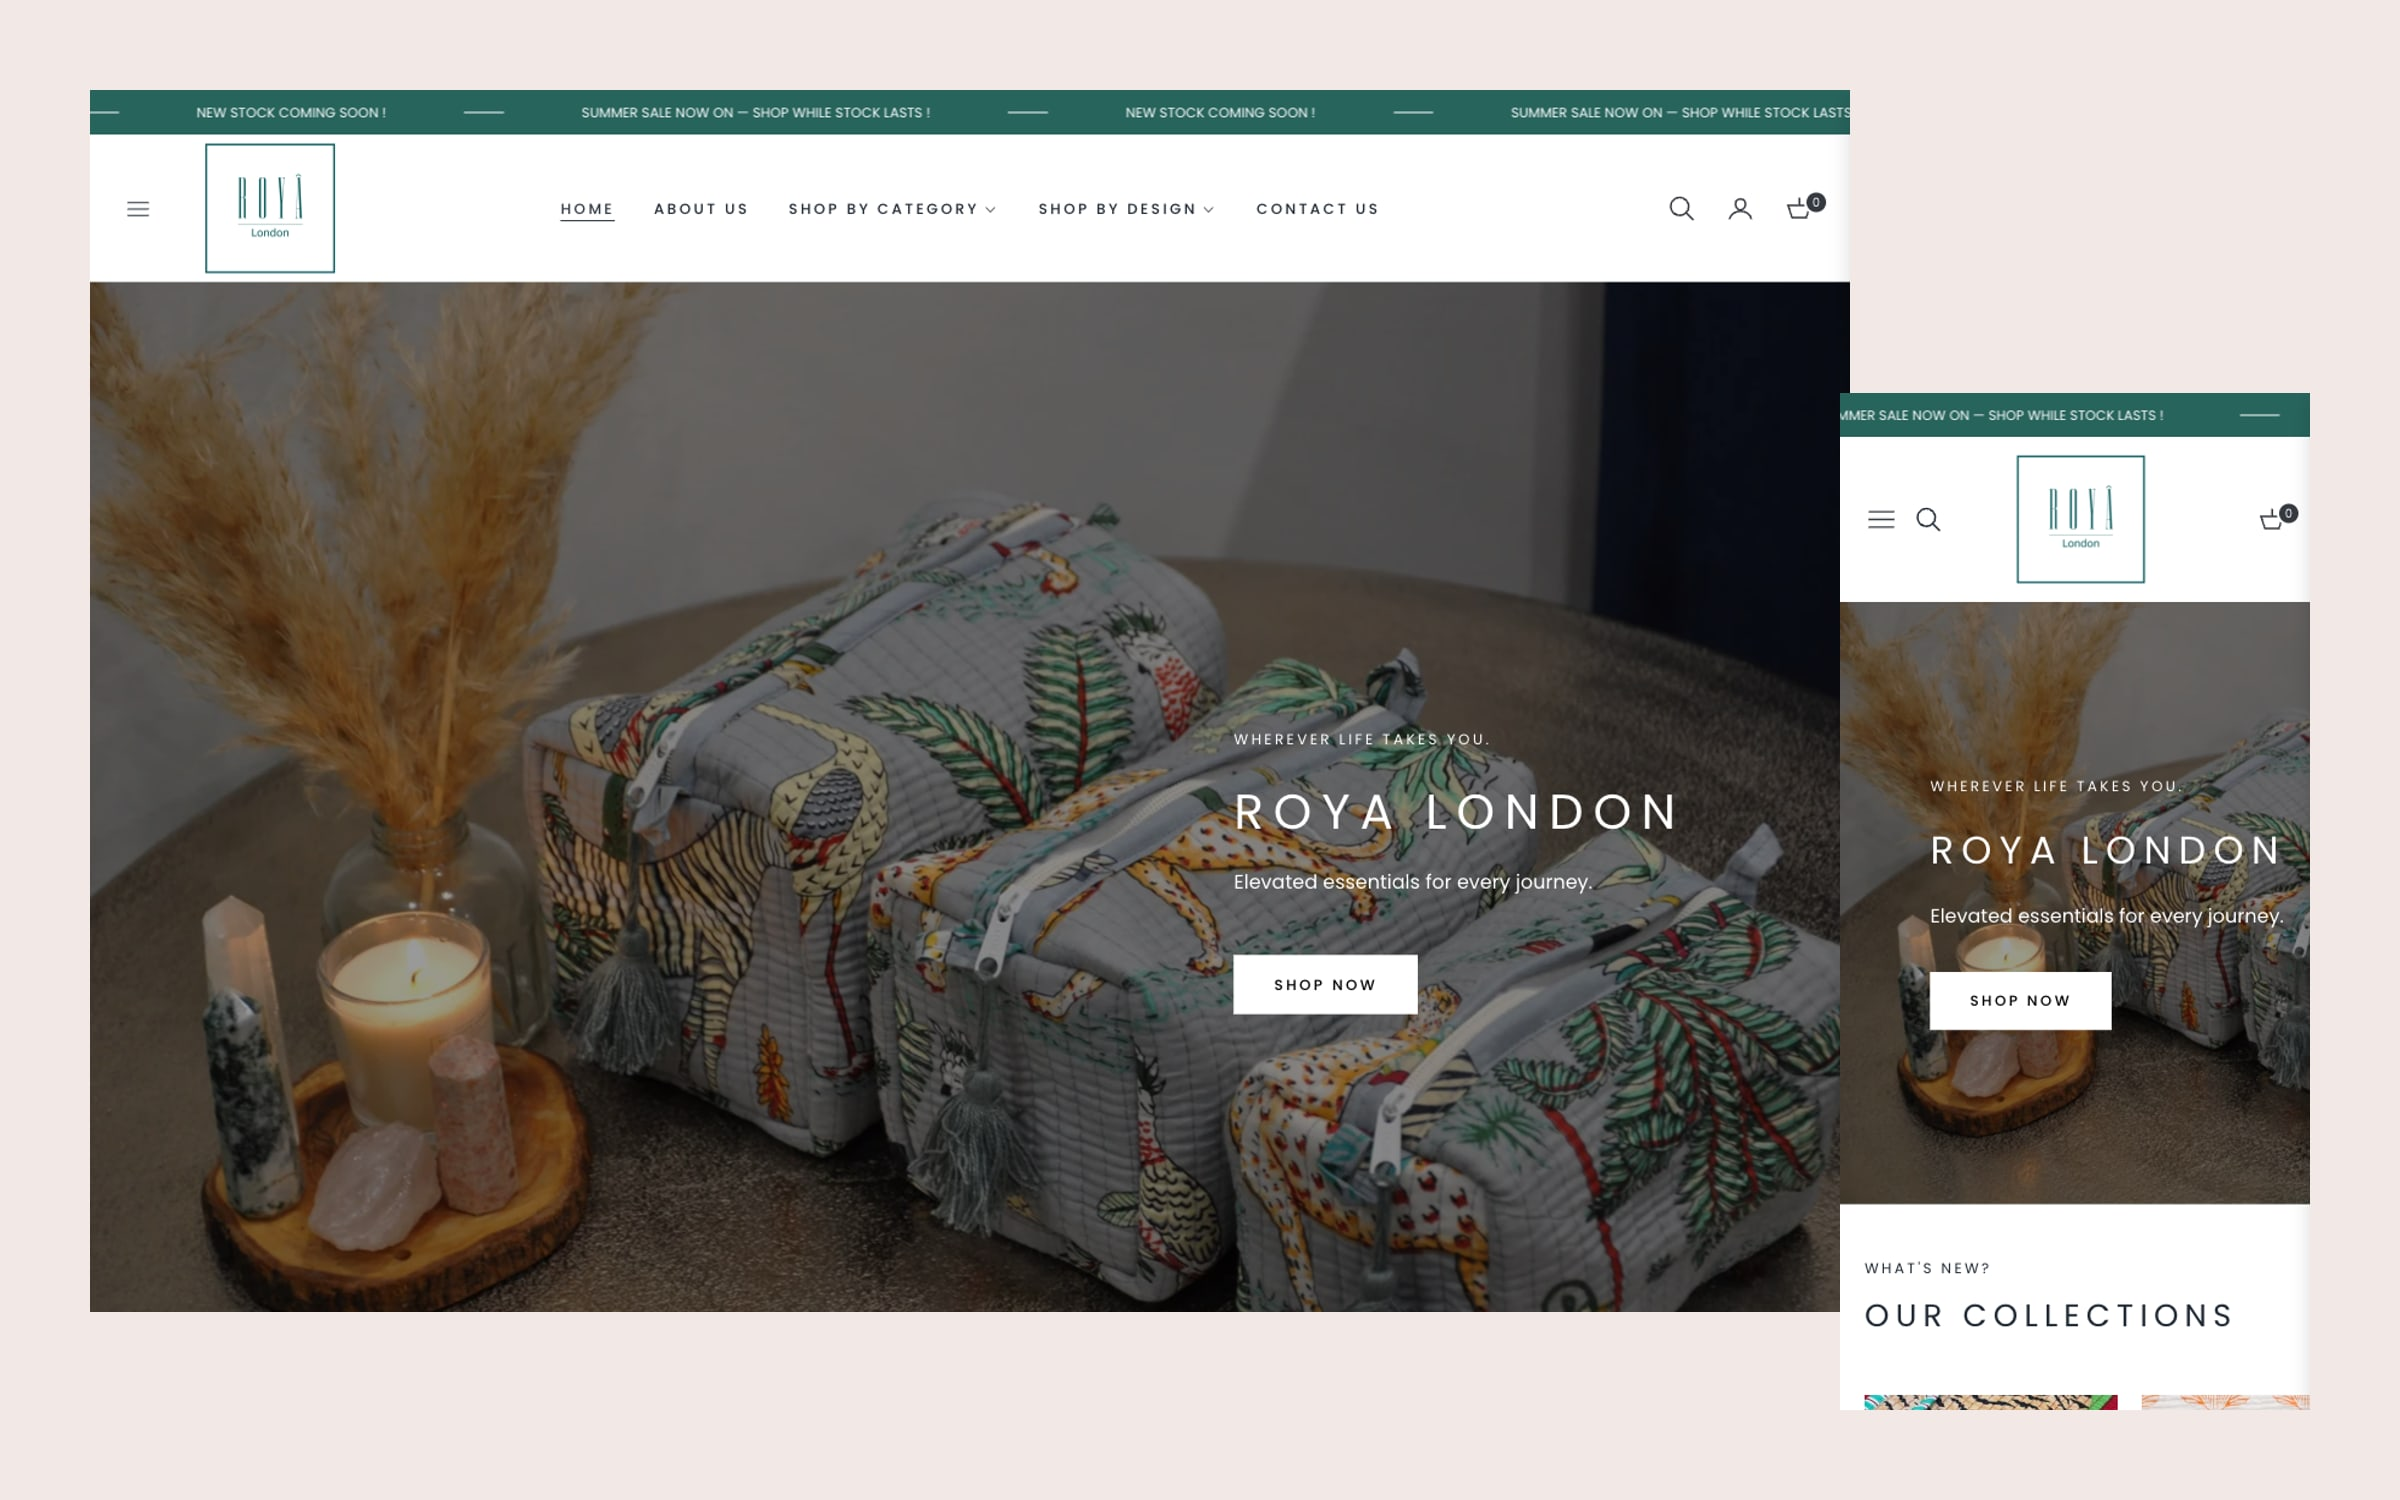
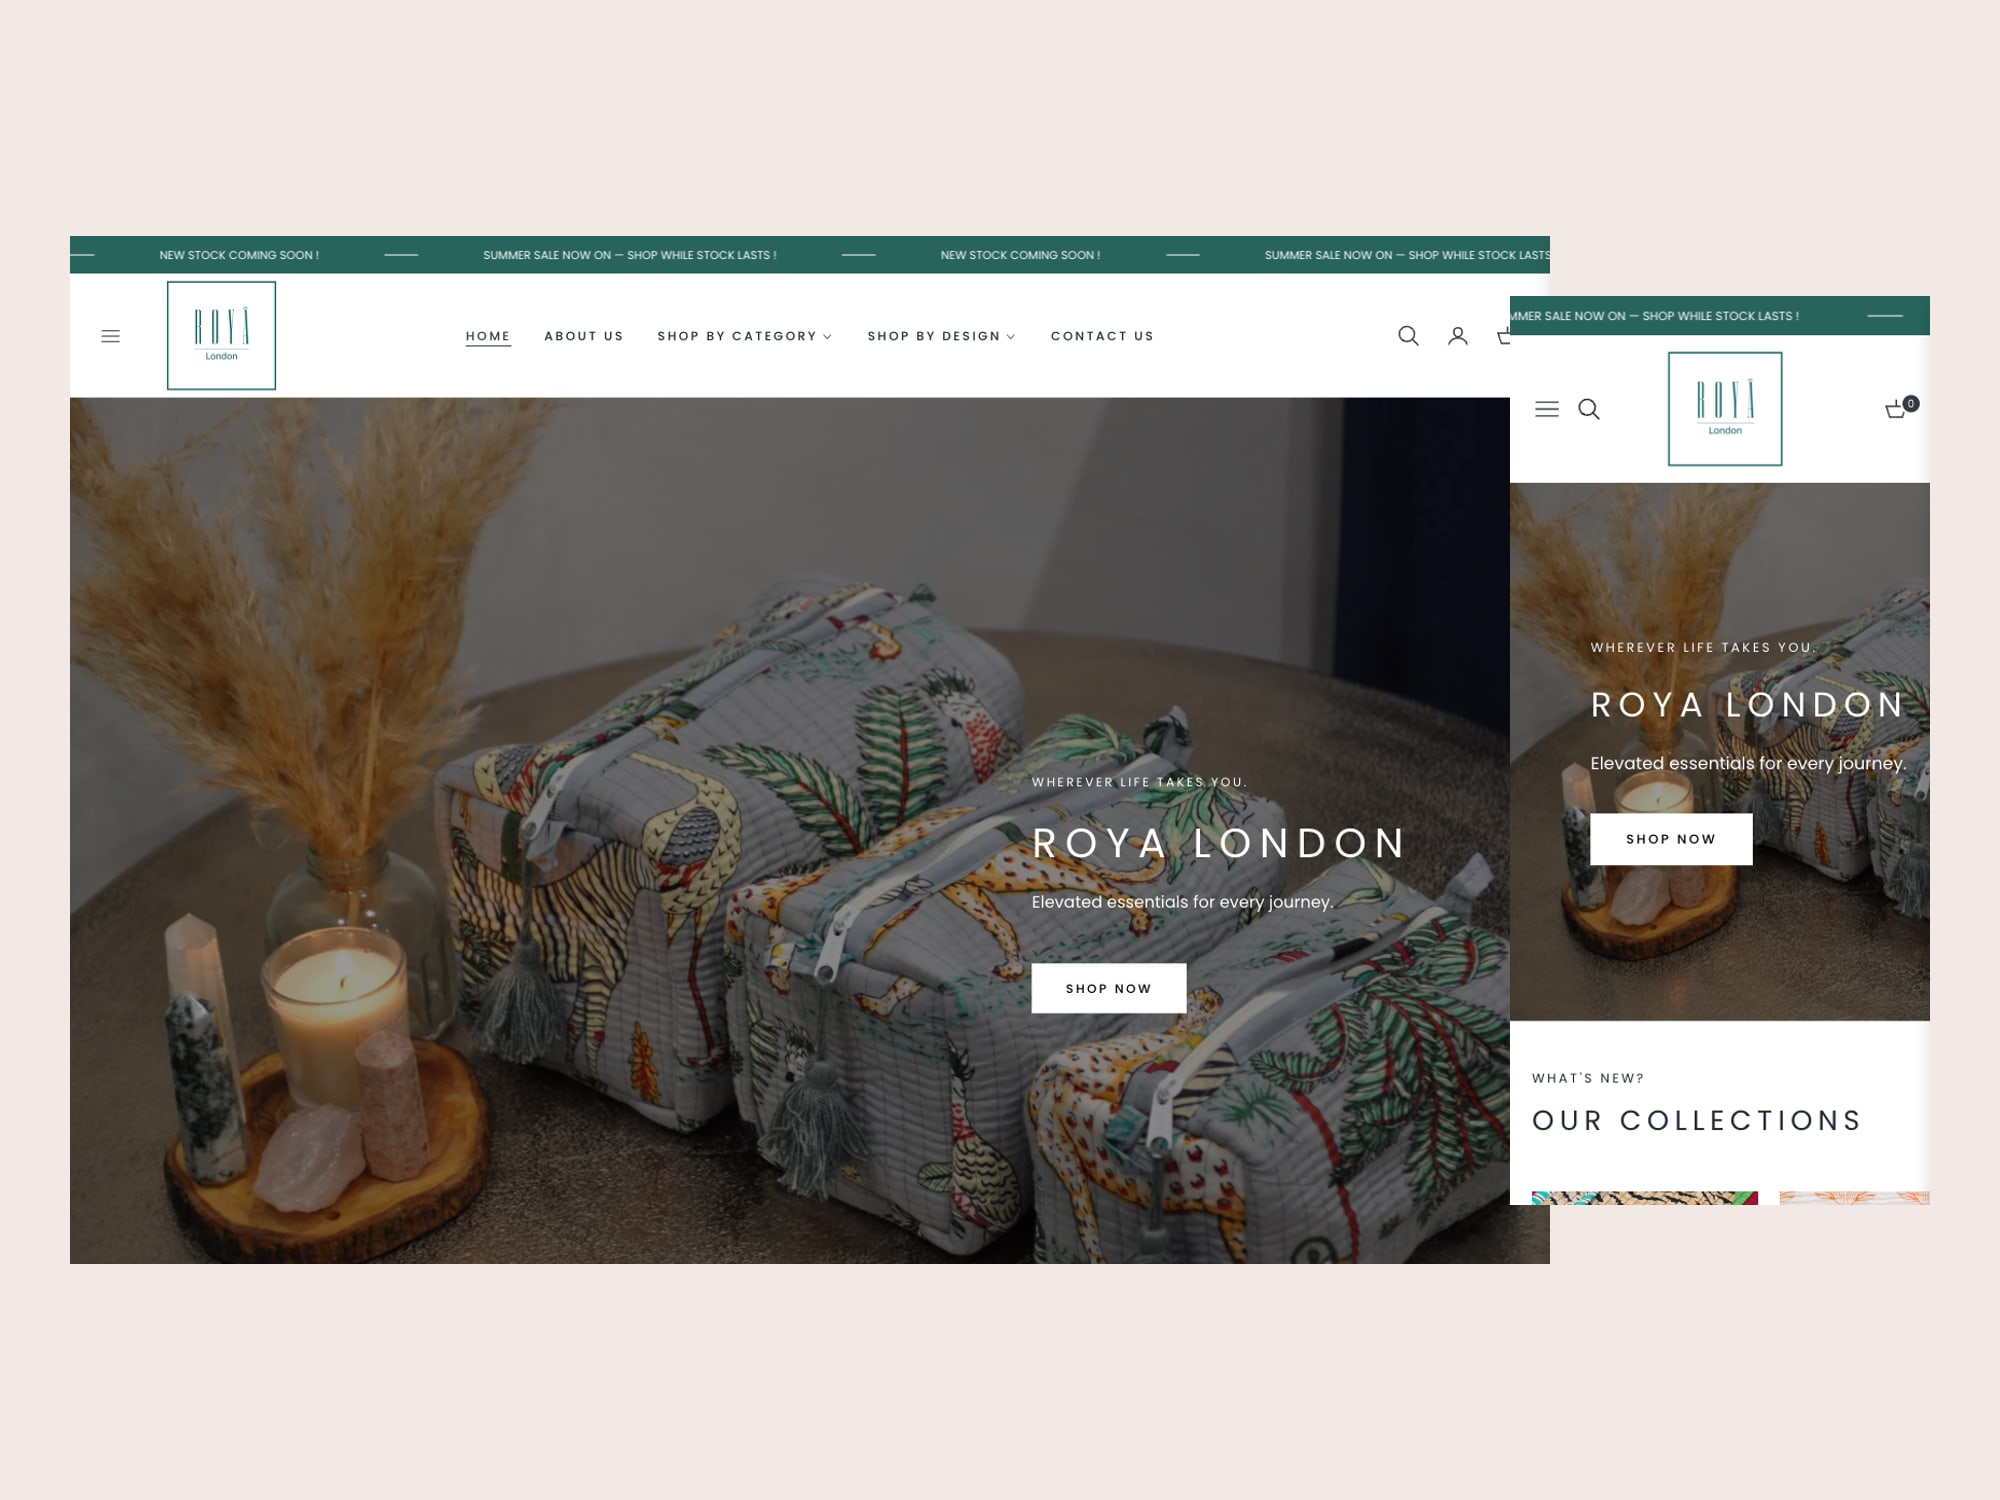
Show case-study work as a mosaic, and link the Instagram strip
The Work was a vertical stack of centred images: five images meant five screens
of scrolling and no sense of a body of work. It now renders as the same
asymmetric mosaic the homepage uses — one feature tile spanning two columns and
both rows, a 2x2 grid beside it — so a case study and the homepage read as one
system.

The mosaic needs five stills. Below that, or with a video in the set, the
stacked layout still applies: a 2x2 grid with a hole in it reads as a bug
rather than a composition. Both studies were brought up to five:

- Chigwell gains a large-format tile, branded navy-and-gold backdrops staged
  inside the marquee, which is the signage the service list names and nothing
  else in the study showed.
- Roya's paired product band splits back into the two squares it was made from.
- Roya's storefront composition is rebuilt at 4:3. At 1.6 in a 1.33 feature
  slot, object-cover cropped away the mobile panel, which was half its point.

Instagram is now its own section rather than a screenshot in the gallery: six
real posts from the venue's account, staggered, each linking out to the post.
The old social.jpg goes with it.

Thumbnails are self-hosted. Instagram signs its CDN URLs with an expiry a few
days out, so hotlinking would have turned the strip into broken images shortly
after launch, and nobody would have noticed until a client did. They route
through img() so they carry the same ?v= token as every other media path,
since /media/* is served immutable for a year.
[…]

diff --git a/src/components/work/InstagramStrip.tsx b/src/components/work/InstagramStrip.tsx
@@ -1,0 +1,85 @@
+import Img from "@/components/media/Img";
+import Reveal from "@/components/motion/Reveal";
+import { img } from "@/lib/media";
+import type { CaseStudy } from "@/content/schema";
+
+/**
+ * A row of real posts from the client's Instagram, each linking out to the post
+ * itself.
+ *
+ * The tiles sit at staggered heights rather than on a rule. A straight row of
+ * six squares reads as a contact sheet; offsetting them reads as a feed, which
+ * is what the section is about. The offsets are a fixed repeating pattern, not
+ * random, so the layout is stable between renders and across the two columns
+ * that survive at phone width.
+ *
+ * Thumbnails are self-hosted. Instagram's CDN signs its image URLs with an
+ * expiry a few days out, so hotlinking would turn this into broken images
+ * shortly after launch and nobody would notice until a client did.
+ */
+
+// Repeating vertical offsets, in px, applied from the second tile onward.
+const OFFSETS = [34, 0, 52, 14, 42, 6];
+
+export default function InstagramStrip({
+  instagram,
+}: {
+  instagram: NonNullable<CaseStudy["instagram"]>;
+}) {
+  const { handle, profileUrl, posts } = instagram;
+
+  return (
+    <section className="section border-t border-(--color-hairline) bg-(--color-paper)">
+      <div className="container-page text-center">
+        <Reveal as="h2" className="font-serif text-h2 font-light tracking-tight">
+          Instagram
+        </Reveal>
+        <Reveal delay={80}>
+          <a
+            href={profileUrl}
+            target="_blank"
+            rel="noopener noreferrer"
+            className="link-underline mt-4 inline-block text-sm tracking-tight text-(--color-ink-soft) transition-colors duration-500 hover:text-(--color-accent-ink)"
+          >
+            @{handle}
+          </a>
+        </Reveal>
+      </div>
+
+      {/* Scrolls sideways rather than wrapping: six staggered tiles reflowed
+          into rows lose the stagger and just look misaligned. */}
+      <ul className="mt-14 flex gap-4 overflow-x-auto px-[max(1.25rem,calc((100vw-80rem)/2))] pb-6 sm:gap-6 lg:justify-center">
+        {posts.map((post, i) => (
+          // The offset sits on a plain <li>, not on Reveal: Reveal has no style
+          // prop, and the reveal animation drives transform itself.
+          <li
+            key={post.url}
+            className="shrink-0"
+            style={{ transform: `translateY(${OFFSETS[i % OFFSETS.length]}px)` }}
+          >
+            <Reveal media delay={i * 70}>
+              <a
+                href={post.url}
+                target="_blank"
+                rel="noopener noreferrer"
+                className="group block overflow-hidden rounded-(--radius-sm)"
+              >
+                {/* Through img() rather than next/image directly, so these
+                    pick up the same ?v= cache token as every other media path
+                    — /media/* is served immutable for a year. */}
+                <div className="relative size-[150px] overflow-hidden sm:size-[200px]">
+                  <Img
+                    media={img(post.src, post.alt, 640, 640)}
+                    fill
+                    sizes="(min-width: 640px) 200px, 150px"
+                    className="transition-transform duration-[900ms] ease-[cubic-bezier(0.16,1,0.3,1)] group-hover:scale-[1.06]"
+                  />
+                </div>
+              </a>
+            </Reveal>
+          </li>
+        ))}
+      </ul>
+    </section>
+  );
+}

diff --git a/src/content/case-studies/chigwell-marquees.ts b/src/content/case-studies/chigwell-marquees.ts
@@ -82,16 +82,52 @@ const chigwellMarquees: CaseStudy = {
       1600,
       1600,
     ),
-    // Captured at phone width rather than desktop: the profile is a phone
-    // artefact, and a 430px-wide source sits at its native size in the portrait
-    // column instead of a 1280px desktop capture shrunk until the text goes.
     img(
-      "/media/work/chigwell/social.jpg",
-      "The Chigwell Marquees Instagram profile, with branded story highlights and a grid of venue content.",
-      430,
-      930,
+      "/media/work/chigwell/signage.jpg",
+      "Large-format branded backdrops in Chigwell Marquees navy and gold, staged inside the marquee.",
+      1800,
+      1350,
     ),
   ],
+  // Real posts from the venue's own account, each linking out to the post.
+  // Thumbnails are self-hosted: Instagram signs its CDN URLs with a short
+  // expiry, so hotlinking them would break the strip within days.
+  instagram: {
+    handle: "thechigwellmarquees",
+    profileUrl: "https://www.instagram.com/thechigwellmarquees/",
+    posts: [
+      {
+        url: "https://www.instagram.com/reel/DdNOP4vM5Yh/",
+        src: "/media/work/chigwell/instagram/DdNOP4vM5Yh.jpg",
+        alt: "An aerial of the marquee and grounds, captioned with the Chigwell Marquees wordmark.",
+      },
+      {
+        url: "https://www.instagram.com/reel/DaVLlUmsoZX/",
+        src: "/media/work/chigwell/instagram/DaVLlUmsoZX.jpg",
+        alt: "A chandelier and tall floral arrangements above a dressed table in the marquee.",
+      },
+      {
+        url: "https://www.instagram.com/p/DbiJljqGi49/",
+        src: "/media/work/chigwell/instagram/DbiJljqGi49.jpg",
+        alt: "A branded welcome sign beside a floral gazebo set for an outdoor ceremony.",
+      },
+      {
+        url: "https://www.instagram.com/p/Dc_-urvM1it/",
+        src: "/media/work/chigwell/instagram/Dc_-urvM1it.jpg",
+        alt: "A branded availability graphic for a date in the Mega Marquee.",
+      },
+      {
+        url: "https://www.instagram.com/reel/DbaUU79EWTH/",
+        src: "/media/work/chigwell/instagram/DbaUU79EWTH.jpg",
+        alt: "A patterned aisle runner and red and gold florals through the dressed marquee.",
+      },
+      {
+        url: "https://www.instagram.com/reel/DbpvXdRkUEm/",
+        src: "/media/work/chigwell/instagram/DbpvXdRkUEm.jpg",
+        alt: "A couple photographed in the grounds at The Chigwell Marquees.",
+      },
+    ],
+  },
   results: [],
   seo: {
     title: "The Chigwell Marquees, Brand, print and social",

diff --git a/src/components/work/WorkMosaic.tsx b/src/components/work/WorkMosaic.tsx
@@ -1,0 +1,52 @@
+import Img from "@/components/media/Img";
+import Reveal from "@/components/motion/Reveal";
+import type { ImageMedia } from "@/content/schema";
+
+/**
+ * The Work, as an asymmetric mosaic: one feature tile spanning two columns and
+ * both rows, with a 2x2 grid beside it. Same shape as the homepage's
+ * ShowcaseMosaic, so a case study and the homepage read as one system.
+ *
+ * This replaced a stack of centred images. Stacked, five images meant five
+ * screens of scrolling and no sense of a body of work; side by side they read
+ * as a portfolio at a glance.
+ *
+ * Needs five images. The caller falls back to the stacked layout below that,
+ * because a 2x2 grid with a hole in it looks like a bug rather than a choice.
+ *
+ * On mobile the feature drops to a normal cell and the whole thing becomes two
+ * columns — a five-tile mosaic at phone width is unreadable.
+ */
+export default function WorkMosaic({ items }: { items: ImageMedia[] }) {
+  const [feature, ...rest] = items;
+
+  return (
+    <div className="grid gap-3 sm:grid-cols-2 lg:grid-cols-4 lg:gap-4">
+      <Reveal
+        media
+        className="relative overflow-hidden rounded-(--radius-sm) sm:col-span-2 lg:row-span-2"
+      >
+        <div className="relative aspect-[4/5] sm:aspect-[4/3] lg:aspect-auto lg:h-full">
+          <Img media={feature} fill sizes="(min-width: 1024px) 50vw, 100vw" />
+        </div>
+      </Reveal>
+
+      {rest.map((tile, i) => (
+        <Reveal
+          media
+          key={tile.src}
+          delay={90 * (i + 1)}
+          className="relative overflow-hidden rounded-(--radius-sm)"
+        >
+          <div className="relative aspect-[4/3]">
+            <Img
+              media={tile}
+              sizes="(min-width: 1024px) 25vw, (min-width: 640px) 50vw, 100vw"
+              fill
+            />
+          </div>
+        </Reveal>
+      ))}
+    </div>
+  );
+}

diff --git a/src/app/case-studies/[slug]/page.tsx b/src/app/case-studies/[slug]/page.tsx
@@ -3,6 +3,8 @@ import { notFound } from "next/navigation";
 import Reveal from "@/components/motion/Reveal";
 import MaskHeading from "@/components/motion/MaskHeading";
 import Figure from "@/components/media/Figure";
+import WorkMosaic from "@/components/work/WorkMosaic";
+import InstagramStrip from "@/components/work/InstagramStrip";
 import Img from "@/components/media/Img";
 import Video from "@/components/media/Video";
 import TransitionLink from "@/components/ui/TransitionLink";
@@ -91,6 +93,12 @@ export default async function CaseStudyPage({
   if (!study) notFound();
 
   const next = getNextCaseStudy(slug);
+
+  // Five or more stills render as a mosaic. Anything with a video in it stays
+  // stacked: the mosaic tiles are <Img>, and a 2x2 grid short of a tile reads
+  // as a bug rather than a composition.
+  const stills = study.work.filter((m) => m.type === "image");
+  const mosaic = stills.length >= 5 && stills.length === study.work.length ? stills : null;
 
   return (
     <article>
@@ -220,7 +228,13 @@ export default async function CaseStudyPage({
             <Reveal as="p" className="eyebrow">
               The Work
             </Reveal>
+            {mosaic && (
+              <div className="mt-14">
+                <WorkMosaic items={mosaic} />
+              </div>
+            )}
           </div>
+          {!mosaic && (
           <div className="mt-14 flex flex-col gap-[clamp(2rem,6vh,6rem)]">
             {study.work.map((media, i) => {
               const { wrap, fullBleed, sizes } = layoutFor(media);
@@ -242,8 +256,11 @@ export default async function CaseStudyPage({
               );
             })}
           </div>
+          )}
         </section>
       )}
+
+      {study.instagram && <InstagramStrip instagram={study.instagram} />}
 
       {/* The result */}
       {study.results.length > 0 && (

diff --git a/src/content/schema.ts b/src/content/schema.ts
@@ -64,6 +64,26 @@ export const caseStudySchema = z.object({
     .array(z.object({ area: z.enum(DISCIPLINES), summary: z.string().min(1) }))
     .min(1),
   work: z.array(mediaSchema).default([]),
+  /**
+   * Real posts from the client's Instagram, shown as a linked strip. Thumbnails
+   * are self-hosted: the CDN URLs Instagram serves are signed and expire within
+   * days, so hotlinking them would leave a wall of broken images.
+   */
+  instagram: z
+    .object({
+      handle: z.string().min(1),
+      profileUrl: z.string().min(1),
+      posts: z
+        .array(
+          z.object({
+            url: z.string().min(1),
+            src: z.string().min(1),
+            alt: z.string().min(1),
+          }),
+        )
+        .min(1),
+    })
+    .optional(),
   results: z
     .array(z.object({ value: z.string().optional(), label: z.string().min(1) }))
     .default([]),

diff --git a/src/content/case-studies/roya-london.ts b/src/content/case-studies/roya-london.ts
@@ -43,7 +43,7 @@ export default buildStudy({
     img(
       "/media/work/roya/site-01.jpg",
       "The Roya London Shopify storefront shown on desktop and mobile.",
-      2400,
+      2000,
       1500,
     ),
     img(
@@ -54,9 +54,15 @@ export default buildStudy({
     ),
     img(
       "/media/work/roya/product-01.jpg",
-      "Roya London products: a shell-print wash bag set and a block-printed safari tote.",
-      2400,
-      1200,
+      "A Roya London shell-print quilted wash bag set in coral and cream.",
+      1400,
+      1400,
+    ),
+    img(
+      "/media/work/roya/product-02.jpg",
+      "A Roya London block-printed safari tote bag in navy.",
+      1400,
+      1400,
     ),
     img(
       "/media/work/roya/tag.jpg",

diff --git a/src/lib/media.ts b/src/lib/media.ts
@@ -6,7 +6,7 @@ const BLUR: Record<string, string> = blurMap;
 // Bump to bust the Vercel/Next image + CDN cache after regenerating assets in
 // place (same path, new content) — otherwise mobile can keep serving stale
 // optimized variants. Appended as ?v= to every media URL.
-const CACHE_V = "20";
+const CACHE_V = "21";
 const v = (src: string) => `${src}?v=${CACHE_V}`;
 
 /** Returns the precomputed blurDataURL for a local image src, if any. */
